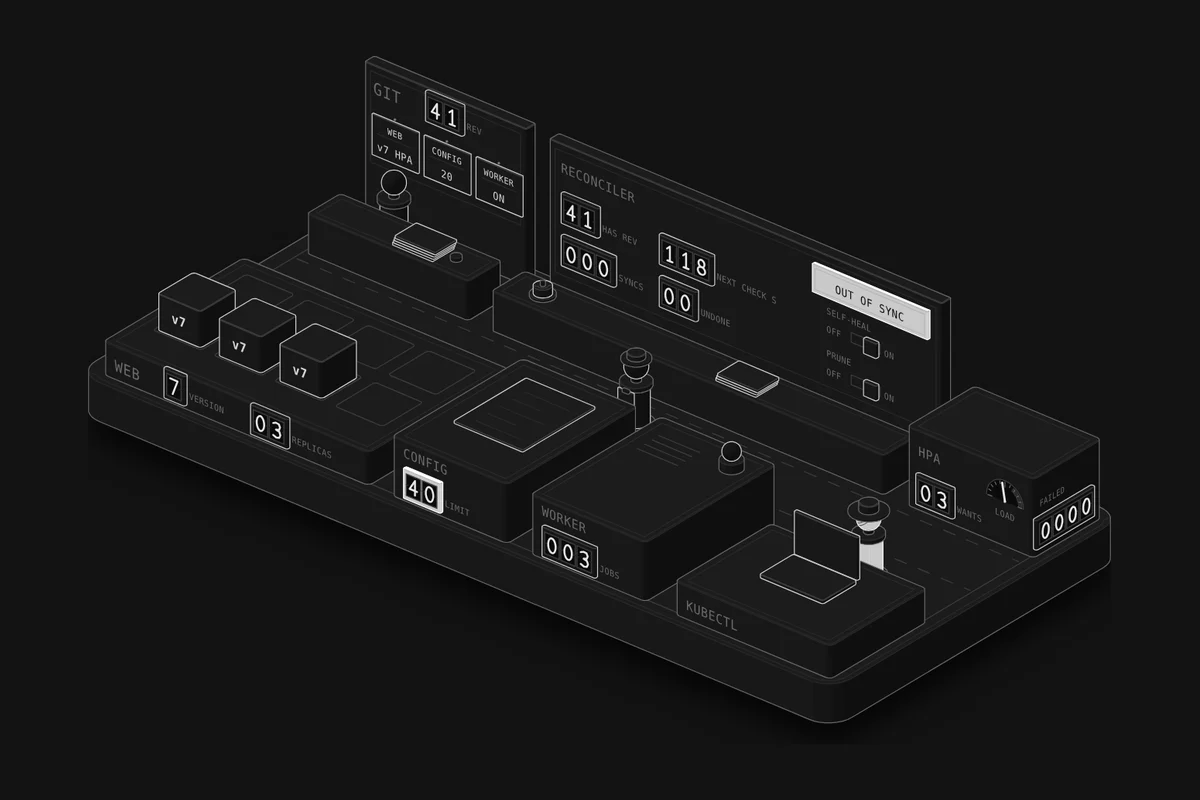
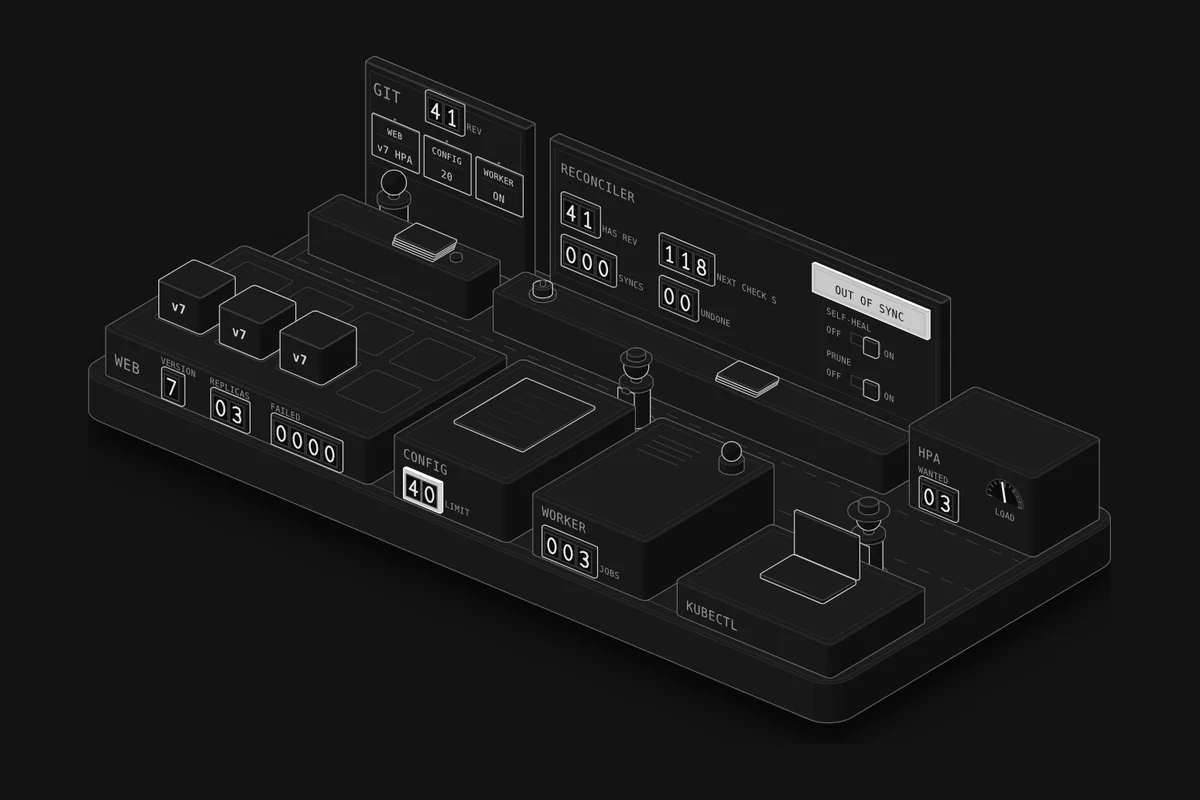
Lesson 78: fix review findings (UNDONE counts every overwrite, FAILED on WEB, lit only for drift, HPA WANTED, aria)
Claude-Session: https://claude.ai/code/session_01S5z2gCvevbrGU3fXgpGDmP

diff --git a/src/lessons/gitops/figure.ts b/src/lessons/gitops/figure.ts
@@ -5,8 +5,9 @@
 //   Back middle: the RECONCILER's booth. Its wall carries the revision the reconciler has read, the countdown to its
 //               next look at git, its syncs and the live edits it has undone, the OUT OF SYNC sign and the SELF-HEAL
 //               and PRUNE switches. On its desk, the bell a git webhook rings.
-//   Back right: the HPA cabinet: load, the pods it wants, requests a second; failed requests on its side.
-//   Front:      the cluster floor. WEB, a Deployment whose pods stand on its platform; CONFIG, a value the app reads;
+//   Back right: the HPA cabinet: the load on a meter and the pods it wants (WANTED).
+//   Front:      the cluster floor. WEB, a Deployment whose pods stand on its platform, with its failed requests;
+//               CONFIG, a value the app reads;
 //               WORKER, an old job runner; and the on-call engineer's KUBECTL desk.
 // The reconciler walks an aisle between the back row and the floor: to the office to read git, and to the back of
 // each resource it syncs. Everything it passes in front of is either far enough behind it or carries no words, and
@@ -42,7 +43,7 @@ const AISLE = { y0: -60, y1: -40 };
 const FLOOR = { y: -38, d: 58 };
 const FRONT = FLOOR.y + FLOOR.d;
 const WEB = { x: -126, y: FLOOR.y, w: 92, d: FLOOR.d, r: 1.6 };
-export const WEB_H = 10;
+export const WEB_H = 14;     // tall enough for captions over its counters
 const CONF = { x: -26, y: -34, w: 40, d: 54, r: 1.6 };
 const WORK = { x: 22, y: -34, w: 40, d: 54, r: 1.6 };
 const BOX_H = 18;
@@ -115,7 +116,7 @@ function gitDesk() {
   out.push(S(k.cylinder(-80, -71, 1.6, DESK.h, 1.2, P, 12), { tone: "mid" }));
   return out.join("");
 }
-export const developerSvg = (lit) => person(P, DEV_AT, { scale: 0.9, lit });
+export const developerSvg = (acting) => person(P, DEV_AT, { scale: 0.9, holding: acting ? "slip" : null });
 
 // ---------- the reconciler's booth ----------
 function reconWall() {
@@ -162,11 +163,15 @@ function reconDesk() {
 function bell() {
   const [bx, by, bz] = BELL_AT;
   const wire = `<g data-hook-wire style="display:none">${L(k.pathOf([[-74, -71, DESK.h + 0.4], [-66, -71, DESK.h + 6], [bx - 3, by, bz + 2]].map((p) => k.iso(p, P))), { tone: "mid" })}</g>`;
-  // a desk bell: a flat base, a dome and a knob
-  const bellOf = (lit) => S(k.cylinder(bx, by, 3.6, bz, 0.8, P, 24, 0.2), { tone: "mid" })
-    + `<g class="wb-lit-group">${S(k.cylinder(bx, by, 2.6, bz + 0.8, 2.4, P, 24, 1.1), { tone: "hi", crease: "lo", lit })}</g>`
+  // a desk bell: a flat base, a dome and a knob; ringing, short strokes fly off the dome (unlit: lit is for drift)
+  const bellBody = S(k.cylinder(bx, by, 3.6, bz, 0.8, P, 24, 0.2), { tone: "mid" })
+    + S(k.cylinder(bx, by, 2.6, bz + 0.8, 2.4, P, 24, 1.1), { tone: "hi", crease: "lo" })
     + S(k.cylinder(bx, by, 0.7, bz + 3.2, 1.2, P, 12), { tone: "mid", crease: "none" });
-  return wire + `<g data-bell="off">${bellOf(false)}</g><g data-bell="on" style="display:none">${litFill(bellOf(true))}</g>`;
+  const ring = [-1, 0, 1].map((j) => {
+    const a = j * 0.7, c = [bx + Math.sin(a) * 1.5, by, bz + 5.2];
+    return k.segment([c[0] + Math.sin(a) * 2, c[1], c[2] + Math.cos(a) * 1.6], [c[0] + Math.sin(a) * 4, c[1], c[2] + Math.cos(a) * 3.6], P);
+  }).join("");
+  return wire + bellBody + `<g data-bell="on" style="display:none">${L(ring, { tone: "hi" })}</g><g data-bell="off"></g>`;
 }
 
 // ---------- the HPA cabinet ----------
@@ -177,12 +182,9 @@ function hpaBox() {
   out.push(text(x0 + 4, f, HPA_H - 7.4, "HPA", TITLE));
   out.push(meter(P, { x: x0 + 34, y: f, z: 13.6, r: 6.4, zone: 1 / 1.5, name: "load", value: 20 / 30 / 1.5 }));
   out.push(text(x0 + 34, f, 8.6, t("LOAD", "CARGA"), LABEL, { anchor: "middle" }));
-  out.push(counter({ x: x0 + 4, y: f, z: 2.6, count: 2, name: "wants", value: 3 }));
-  out.push(text(after(x0 + 4, 2), f, 4.2, t("WANTS", "PIDE")));
-  // failed requests, on the right side
-  const side = HPA_BOX.x + HPA_BOX.w;
-  out.push(faceText(P, [side, f - 2.4, 14.6], t("FAILED", "FALLIDAS"), { face: "x", size: LABEL, tone: "mid" }));
-  out.push(counter({ x: side, y: f - 2.4, z: 3, count: 4, face: "x", name: "failed" }));
+  // the pods it wants: the same word as lesson 76's HPA (READY / STARTING / WANTED)
+  out.push(counter({ x: x0 + 5.2, y: f, z: 2, count: 2, name: "wants", value: 3 }));
+  out.push(text(x0 + 4, f, 11.6, t("WANTED", "DESEADOS")));
   return out.join("");
 }
 
@@ -199,11 +201,12 @@ function web() {
   out.push(L(k.planOutline(k.insetPlan(WEB, 2.4), WEB_H, P), { tone: "faint" }));
   // the pod sockets
   out.push(L(SLOTS.map(([x, y]) => k.planOutline({ x: x - POD.w / 2 - 0.8, y: y - POD.d / 2 - 0.8, w: POD.w + 1.6, d: POD.d + 1.6, r: 1 }, WEB_H, P)).join(""), { tone: "lo" }));
-  out.push(text(WEB.x + 4, FRONT, 2.6, "WEB", TITLE + 0.6));
-  out.push(litCounter("version", { x: WEB.x + 22, y: FRONT, z: 1.8, count: 1, value: 7 }));
-  out.push(text(after(WEB.x + 22, 1), FRONT, 3.4, t("VERSION", "VERSIÓN")));
-  out.push(litCounter("replicas", { x: WEB.x + 52, y: FRONT, z: 1.8, count: 2, value: 3 }));
-  out.push(text(after(WEB.x + 52, 2), FRONT, 3.4, t("REPLICAS", "RÉPLICAS")));
+  out.push(text(WEB.x + 4, FRONT, 4.4, "WEB", TITLE + 0.6));
+  // each counter with its caption over it; the requests web fails (it can't serve them, or a bad version breaks them)
+  const col = (x, name, count, words, value, lit) => (lit ? litCounter(name, { x: x + 1.2, y: FRONT, z: 1.4, count, value }) : counter({ x: x + 1.2, y: FRONT, z: 1.4, count, name, value })) + text(x, FRONT, 10.9, words);
+  out.push(col(WEB.x + 20, "version", 1, t("VERSION", "VERSIÓN"), 7, true));
+  out.push(col(WEB.x + 37, "replicas", 2, t("REPLICAS", "RÉPLICAS"), 3, true));
+  out.push(col(WEB.x + 58, "failed", 4, t("FAILED", "FALLIDAS"), 0, false));
   out.push(`<g data-layer="pods"></g>`);
   return out.join("");
 }
@@ -242,10 +245,11 @@ function kubectl() {
   out.push(S(k.slabOf({ x: 88, y: -11.4, w: 22, d: 1.2, r: 0.3 }, KUBE_H + 1, 13, P, 2, 0.2), { tone: "hi", crease: "lo" }));
   return out.join("");
 }
-export const engineerSvg = (lit) => person(P, ENG_AT, { scale: 0.9, hat: "brim", lit });
+export const engineerSvg = (acting) => person(P, ENG_AT, { scale: 0.9, hat: "brim", holding: acting ? "slip" : null });
 
 // ---------- moving parts, drawn at the origin and moved with translateAlong ----------
-export const walkerSvg = (lit) => person(P, [0, 0, 0], { scale: 0.9, hat: "cap", holding: "clipboard", lit });
+// The reconciler: a clipboard while it reads and walks; git's blueprint (a slip) while it syncs.
+export const walkerSvg = (syncing) => person(P, [0, 0, 0], { scale: 0.9, hat: "cap", holding: syncing ? "slip" : "clipboard" });
 // A pod: a box with its version on top; a starting pod is a low box.
 export function podSvg(h) {
   const plan = { x: -POD.w / 2, y: -POD.d / 2, w: POD.w, d: POD.d, r: 1 };
@@ -258,14 +262,14 @@ export function buildFigure() {
     width: WIDTH,
     height: HEIGHT,
     label: t(
-      "GitOps as a machine on a base plate. At the back left, GIT, a blueprint office: its wall shows the head revision and three blueprint cards, WEB, CONFIG and WORKER, with the values git says should run; a developer who merges changes stands behind its desk. At the back middle, the RECONCILER's booth: its wall shows the revision it has read, the seconds to its next look at git, its syncs and the live edits it has undone, an OUT OF SYNC sign and the SELF-HEAL and PRUNE switches; a bell on its desk rings when a git webhook arrives. At the back right, the HPA cabinet shows load, the pods it wants, requests a second and failed requests. In front, the cluster floor: WEB, whose pods stand on its platform with their version on top, with counters for its version and replicas; CONFIG, with its LIMIT; WORKER, an old job runner, with a lamp that lights when git no longer has it; and the on-call engineer's KUBECTL desk. The reconciler walks the aisle between the back row and the floor, with a clipboard: to the office to read git, and to each resource it syncs. Lit: what differs from git right now, and whoever is acting.",
-      "GitOps como una máquina sobre una placa base. Atrás a la izquierda, GIT, una oficina de planos: su pared muestra la revisión de la cabeza (head) y tres fichas de planos, WEB, CONFIG y WORKER, con los valores que git dice que deben correr; detrás de su escritorio está quien desarrolla y fusiona cambios. Atrás al centro, la cabina del RECONCILIADOR: su pared muestra la revisión que leyó, los segundos hasta su próxima revisión de git, sus syncs y las ediciones en vivo que deshizo, un letrero DESINCRONIZADA y los interruptores SELF-HEAL y PRUNE; una campana en su escritorio suena cuando llega un webhook de git. Atrás a la derecha, el gabinete del HPA muestra la carga, los pods que pide, las solicitudes por segundo y las solicitudes fallidas. Adelante, el piso del clúster: WEB, cuyos pods están sobre su plataforma con su versión encima, con contadores de su versión y sus réplicas; CONFIG, con su LÍMITE; WORKER, un ejecutor de tareas viejo, con una lámpara que se enciende cuando git ya no lo tiene; y el escritorio KUBECTL de la ingeniera de guardia. El reconciliador recorre el pasillo entre la fila de atrás y el piso, con una tablilla: hasta la oficina para leer git y hasta cada recurso que sincroniza. Encendido: lo que difiere de git en este momento y quien está actuando.",
+      "GitOps as a machine on a base plate. At the back left, GIT, a blueprint office: its wall shows the head revision and three blueprint cards, WEB, CONFIG and WORKER, with the values git says should run; a developer who merges changes stands behind its desk. At the back middle, the RECONCILER's booth: its wall shows the revision it has read, the seconds to its next look at git, its syncs and the live edits it has undone, an OUT OF SYNC sign and the SELF-HEAL and PRUNE switches; a bell on its desk rings when a git webhook arrives. At the back right, the HPA cabinet shows the load on a meter and the pods it wants. In front, the cluster floor: WEB, whose pods stand on its platform with their version on the front, with counters for its version, its replicas and the requests it failed; CONFIG, with its LIMIT; WORKER, an old job runner, with a lamp that lights when git no longer has it; and the on-call engineer's KUBECTL desk. The reconciler walks the aisle between the back row and the floor: with a clipboard to the office to read git, and with git's blueprint to each resource it syncs; the developer and the engineer hold a slip while they act. Lit: what differs from git right now.",
+      "GitOps como una máquina sobre una placa base. Atrás a la izquierda, GIT, una oficina de planos: su pared muestra la revisión de la cabeza (head) y tres fichas de planos, WEB, CONFIG y WORKER, con los valores que git dice que deben correr; detrás de su escritorio está quien desarrolla y fusiona cambios. Atrás al centro, la cabina del RECONCILIADOR: su pared muestra la revisión que leyó, los segundos hasta su próxima revisión de git, sus syncs y las ediciones en vivo que deshizo, un letrero DESINCRONIZADA y los interruptores SELF-HEAL y PRUNE; una campana en su escritorio suena cuando llega un webhook de git. Atrás a la derecha, el gabinete del HPA muestra la carga en un medidor y los pods que desea. Adelante, el piso del clúster: WEB, cuyos pods están sobre su plataforma con su versión al frente, con contadores de su versión, sus réplicas y las solicitudes que falló; CONFIG, con su LÍMITE; WORKER, un ejecutor de tareas viejo, con una lámpara que se enciende cuando git ya no lo tiene; y el escritorio KUBECTL de la ingeniera de guardia. El reconciliador recorre el pasillo entre la fila de atrás y el piso: con una tablilla hasta la oficina para leer git, y con el plano de git hasta cada recurso que sincroniza; quien desarrolla y la ingeniera sostienen una papeleta mientras actúan. Encendido: lo que difiere de git en este momento.",
     ),
     body: [
       plate(),
       gitWall(),
       reconWall(),
-      `<g data-dev>${`<g data-person="off">${developerSvg(false)}</g><g data-person="on" style="display:none">${litFill(developerSvg(true))}</g>`}</g>`,
+      `<g data-dev>${`<g data-person="off">${developerSvg(false)}</g><g data-person="on" style="display:none">${developerSvg(true)}</g>`}</g>`,
       gitDesk(),
       reconDesk(),
       bell(),
@@ -275,7 +279,7 @@ export function buildFigure() {
       web(),
       config(),
       worker(),
-      `<g data-eng>${`<g data-person="off">${engineerSvg(false)}</g><g data-person="on" style="display:none">${litFill(engineerSvg(true))}</g>`}</g>`,
+      `<g data-eng>${`<g data-person="off">${engineerSvg(false)}</g><g data-person="on" style="display:none">${engineerSvg(true)}</g>`}</g>`,
       kubectl(),
     ],
   });

diff --git a/src/lessons/gitops/page.ts b/src/lessons/gitops/page.ts
@@ -5,7 +5,6 @@ import { defineLesson, withResults } from "../types";
 import { n0, int } from "../../lib/format";
 import { LIT_FILL_CSS } from "../../../workbench/parts.mjs";
 import { buildFigure, walkerSvg, podSvg, P, GEOMETRY, POD } from "./figure";
-import { litFill } from "../../../workbench/parts.mjs";
 import { hotfixRun, pollRun, hpaRun, pruneRun, rollbackRun, HOTFIX, MERGES, SPIKE, PRUNE, ROLLBACK, LIMIT, LOAD, CAP, STARTUP } from "./sim";
 
 // Experiment results, computed at build time from the same model the machine runs (eight seeded runs each).
@@ -213,13 +212,13 @@ export default defineLesson({
     plate: {
       title: t("Blueprint office", "Oficina de planos"),
       keys: [
-        { mark: "lit", label: t("What differs from git right now: a counter's housing, a pod on another version, OUT OF SYNC, the worker's lamp; a card git changed that the reconciler hasn't read; whoever is acting", "Lo que difiere de git en este momento: el marco de un contador, un pod con otra versión, DESINCRONIZADA, la lámpara del worker; una ficha que git cambió y el reconciliador no leyó; quien está actuando") },
+        { mark: "lit", label: t("What differs from git right now: a counter's housing, a pod on another version, OUT OF SYNC, the worker's lamp; a card git changed that the reconciler hasn't read", "Lo que difiere de git en este momento: el marco de un contador, un pod con otra versión, DESINCRONIZADA, la lámpara del worker; una ficha que git cambió y el reconciliador no leyó") },
         { mark: "raised", label: t("Pods on WEB, their version on the front; a low pod is still starting", "Pods sobre WEB, con su versión al frente; un pod bajo todavía está arrancando") },
         { mark: "flat", label: t("The aisle the reconciler walks, between git and the cluster", "El pasillo que recorre el reconciliador, entre git y el clúster") },
       ],
       caption: t(
-        "GIT's wall shows the head revision and one card per resource with the value git wants: web's version and replicas (HPA when git leaves them to it), config's LIMIT, and whether the worker exists. The reconciler's wall shows the revision it has read (HAS REV) and the seconds until it reads git again (NEXT CHECK); when the two revisions differ, git is ahead and the changed cards light. Once it has read a new revision, it walks to every resource that differs and applies git's value (an automated sync). With self-heal on it does the same, within seconds, for any live change, waiting longer each time the same drift comes back. With prune on, a sync also deletes what git no longer has. The HPA sets web's replicas from the load; each ready pod serves " + CAP + " requests a second, and what they can't serve, or what a bad version breaks, fails.",
-        "La pared de GIT muestra la revisión de la cabeza y una ficha por recurso con el valor que quiere git: la versión y las réplicas de web (HPA cuando git las deja a su cargo), el LÍMITE de config y si el worker existe. La pared del reconciliador muestra la revisión que leyó (TIENE REV) y los segundos que faltan para que vuelva a leer git (REVISA EN); cuando las dos revisiones difieren, git va adelante y las fichas cambiadas se encienden. Al leer una revisión nueva, recorre cada recurso que difiere y aplica el valor de git (un sync automático). Con self-heal hace lo mismo, en segundos, ante cualquier cambio en vivo, y espera más cada vez que vuelve la misma deriva. Con prune, un sync también borra lo que git ya no tiene. El HPA fija las réplicas de web según la carga; cada pod listo atiende " + CAP + " solicitudes por segundo, y lo que no alcanzan a atender, o lo que rompe una versión mala, falla.",
+        "GIT's wall shows the head revision and one card per resource with the value git wants: web's version and replicas (HPA when git leaves them to it), config's LIMIT, and whether the worker exists. The reconciler's wall shows the revision it has read (HAS REV) and the seconds until it reads git again (NEXT CHECK); when the two revisions differ, git is ahead and the changed cards light. Once it has read a new revision, it walks to every resource that differs and applies git's value (an automated sync). With self-heal on it does the same, within seconds, for any live change. With prune on, a sync also deletes what git no longer has. The HPA sets web's replicas from the load (WANTED); what the ready pods can't serve, or a bad version breaks, counts under web's FAILED. Whoever acts holds a slip.",
+        "La pared de GIT muestra la revisión de la cabeza y una ficha por recurso con el valor que quiere git: la versión y las réplicas de web (HPA cuando git las deja a su cargo), el LÍMITE de config y si el worker existe. La pared del reconciliador muestra la revisión que leyó (TIENE REV) y los segundos que faltan para que vuelva a leer git (REVISA EN); cuando las dos revisiones difieren, git va adelante y las fichas cambiadas se encienden. Al leer una revisión nueva, recorre cada recurso que difiere y aplica el valor de git (un sync automático). Con self-heal hace lo mismo, en segundos, ante cualquier cambio en vivo. Con prune, un sync también borra lo que git ya no tiene. El HPA fija las réplicas de web según la carga (DESEADOS); lo que los pods listos no alcanzan a atender, o lo que rompe una versión mala, cuenta en FALLIDAS de web. Quien actúa sostiene una papeleta.",
       ),
       stage: { "data-gitops": "" },
       label: t("GitOps reconcile simulation. Space pauses or resumes.", "Simulación de reconciliación GitOps. Espacio pausa o reanuda."),
@@ -242,8 +241,8 @@ export default defineLesson({
       { speed: true, options: [[1, "×1"], [4, "×4"], [15, "×15"], [60, "×60"]], value: 4 },
       { actions: [["release", t("Merge a release", "Fusionar una versión")], ["hotfix", t("Hotfix the cluster", "Hotfix en el clúster")], ["worker", t("Remove the worker in git", "Quitar el worker de git")], ["sync", t("Sync now", "Sincronizar ya")], ["reset", t("Start over", "Empezar de nuevo")], ["pause", t("Pause", "Pausa")]], label: t("Do something", "Haz algo") },
     ],
-    note: t("The reconciler follows Argo CD's defaults: it reads git every 120 s plus up to 60 s, and repeated self-heals wait 2 s, then three times longer each time, up to 5 minutes. Pods take " + STARTUP + " s to start; the HPA checks every 15 s and here aims for pods 70% busy. Other times are illustrative. Speed ×4 to ×60 makes the timers come round quickly.",
-      "El reconciliador sigue los valores por defecto de Argo CD: lee git cada 120 s más hasta 60 s, y las autorreparaciones repetidas esperan 2 s, luego tres veces más cada vez, hasta 5 minutos. Los pods tardan " + STARTUP + " s en arrancar; el HPA revisa cada 15 s y aquí apunta a pods ocupados al 70%. Los demás tiempos son ilustrativos. Las velocidades ×4 a ×60 hacen que los temporizadores lleguen rápido."),
+    note: t("The reconciler follows Argo CD's defaults: it reads git every 120 s plus up to 60 s, and repeated self-heals wait 2 s, then three times longer each time, up to 5 minutes. Pods take " + STARTUP + " s to start and each ready one serves " + CAP + " requests a second; the HPA checks every 15 s and here aims for pods 70% busy. Other times are illustrative. Speed ×4 to ×60 makes the timers come round quickly.",
+      "El reconciliador sigue los valores por defecto de Argo CD: lee git cada 120 s más hasta 60 s, y las autorreparaciones repetidas esperan 2 s, luego tres veces más cada vez, hasta 5 minutos. Los pods tardan " + STARTUP + " s en arrancar y cada uno listo atiende " + CAP + " solicitudes por segundo; el HPA revisa cada 15 s y aquí apunta a pods ocupados al 70%. Los demás tiempos son ilustrativos. Las velocidades ×4 a ×60 hacen que los temporizadores lleguen rápido."),
   },
   predict: { intro: t("Each experiment changes one thing. Choose what you expect <em>before</em> running it. Results come from the same model as the machine, averaged over eight seeded runs: web serves " + LOAD.normal + " requests a second on 3 pods, and the engineer's hotfix raises config's LIMIT from " + LIMIT.git + " to " + LIMIT.hotfix + ".",
     "Cada experimento cambia una sola cosa. Elige lo que esperas <em>antes</em> de ejecutarlo. Los resultados salen del mismo modelo que la máquina, promediados sobre ocho ejecuciones con semilla fija: web atiende " + LOAD.normal + " solicitudes por segundo con 3 pods, y el hotfix sube el LÍMITE de config de " + LIMIT.git + " a " + LIMIT.hotfix + "."), experiments: withResults(EXPERIMENTS, RUNS) },
@@ -259,7 +258,7 @@ ${LIT_FILL_CSS}
     P,
     G: GEOMETRY,
     WALKER: walkerSvg(false),
-    WALKER_LIT: litFill(walkerSvg(true)),
+    WALKER_SYNC: walkerSvg(true),
     POD_READY: podSvg(POD.h),
     POD_START: podSvg(POD.hStart),
   },

diff --git a/src/lessons/gitops/live.ts b/src/lessons/gitops/live.ts
@@ -8,7 +8,7 @@ import { L, T } from "../../runtime/wb";
 import { show, setText, setLit, playPause } from "../../runtime/dom";
 import { makeSim, CAP } from "./sim";
 
-export default function mount({ P, G, WALKER, WALKER_LIT, POD_READY, POD_START }, root) {
+export default function mount({ P, G, WALKER, WALKER_SYNC, POD_READY, POD_START }, root) {
   const { stage, svg } = root.figure;
   const q = (s) => svg.querySelector(s);
   const NS = "http://www.w3.org/2000/svg";
@@ -27,7 +27,7 @@ export default function mount({ P, G, WALKER, WALKER_LIT, POD_READY, POD_START }
 
   // ---------- the walker ----------
   const walker = document.createElementNS(NS, "g");
-  walker.innerHTML = `<g data-w="off">${WALKER}</g><g data-w="on" style="display:none">${WALKER_LIT}</g>`;
+  walker.innerHTML = `<g data-w="off">${WALKER}</g><g data-w="on" style="display:none">${WALKER_SYNC}</g>`;
   const wOff = walker.querySelector('[data-w="off"]'), wOn = walker.querySelector('[data-w="on"]');
   walkLayer.appendChild(walker);
 
@@ -178,7 +178,7 @@ export default function mount({ P, G, WALKER, WALKER_LIT, POD_READY, POD_START }
     const orphan = live.worker && !want.worker;
     show(lampEl.on, orphan); show(lampEl.off, !orphan);
 
-    // people
+    // people: whoever acts holds a slip (lit is kept for what differs from git)
     const dev = clock - flash.dev < 1.6, eng = clock - flash.eng < 1.6;
     for (const [key, on] of [["dev", dev], ["eng", eng]]) {
       show(people[key].querySelector('[data-person="on"]'), on);

diff --git a/src/lessons/gitops/sim.ts b/src/lessons/gitops/sim.ts
@@ -153,12 +153,12 @@ export function makeSim(cfgIn = {}, seed = 1, script = []) {
       if (live.image !== d.image) { live.image = d.image; live.history.push(d.image); }
       if (d.replicas !== null && live.replicas !== d.replicas) { if (d.replicas < live.replicas) st.cuts++; live.replicas = d.replicas; }
       if (was.image !== live.image || was.replicas !== live.replicas) {
-        if (task.why === "heal" && (edited.has("image") || edited.has("replicas"))) st.undone++;
+        if (edited.has("image") || edited.has("replicas")) st.undone++;   // any sync that overwrites a live edit
         log.push({ t, type: "apply", what: "web", from: was, to: { image: live.image, replicas: live.replicas }, why: task.why });
       }
       edited.delete("image"); edited.delete("replicas");
     } else if (x === STOPS.config && live.config !== d.config) {
-      if (edited.has("config")) { if (task.why === "heal") st.undone++; log.push({ t, type: "hotfixGone", from: live.config, to: d.config, why: task.why }); }
+      if (edited.has("config")) { st.undone++; log.push({ t, type: "hotfixGone", from: live.config, to: d.config, why: task.why }); }
       else log.push({ t, type: "apply", what: "config", from: live.config, to: d.config, why: task.why });
       live.config = d.config; edited.delete("config");
     } else if (x === STOPS.worker) {
